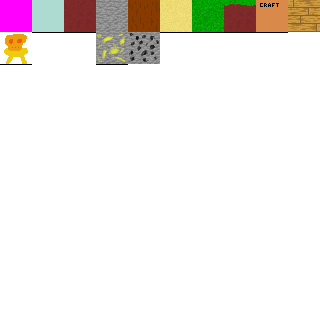
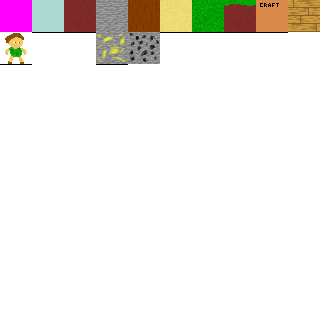
better deserts, tile update

Changed region(s): [[0.0, 0.0938, 0.0938, 0.2188]]

diff --git a/Chunk.cpp b/Chunk.cpp
@@ -1,5 +1,6 @@
 #include "Helper.h"
 
+//Chunk generation takes approximately 14 ms
 Map::Chunk::Chunk(Map* map, posChunk p) :pos(p), map(map){
 	std::cout << "Created chunk [" << p.x << "][" << p.y << "]" << std::endl;
 	generate();
@@ -21,12 +22,21 @@ void Map::Chunk::generate(){
 				if(biome!=Biome::DESERT && gy + j > 0)b.fluid = 2;
 				data[i + j * chSize] = b;
 			} else if(j + gy == n1){
-				if(gy + j < 0)
-					data[i + j * chSize] = Block(Tile::GRASS, Tile::DIRT, 0);
-				else
+				if(gy + j < 0){
+					if(biome == Biome::DESERT){
+						data[i + j * chSize] = Block(Tile::SAND, Tile::SAND, 0);
+					} else{
+						data[i + j * chSize] = Block(Tile::GRASS, Tile::DIRT, 0);
+					}
+				} else
 					data[i + j * chSize] = Block(Tile::SAND, Tile::AIR, 0);
-			} else if(j + gy < n1 + dirtHeight)data[i + j * chSize] = Block(Tile::DIRT, Tile::DIRT, 0);
-			else{
+			} else if(j + gy < n1 + dirtHeight){
+				if(biome == Biome::DESERT){
+					data[i + j * chSize] = Block(Tile::SAND, Tile::SAND, 0);
+				} else{
+					data[i + j * chSize] = Block(Tile::DIRT, Tile::DIRT, 0);
+				}
+			} else{
 				std::uniform_int_distribution<> dist(0, 10000);
 				const bool oreG = dist(rng) > 9990;
 				const bool oreC = dist(rng) > 9990;

diff --git a/Game.cpp b/Game.cpp
@@ -88,12 +88,14 @@ SDL_AppResult SDL_AppInit(void** appstate, int argc, char** argv){
 
 void AppUpdate(std::stop_token stoken){
 	while(!stoken.stop_requested()){
+		int cChG1 = game.countChunkGen;
 		const auto t = std::chrono::high_resolution_clock::now();
 		game.map->update();
 		const auto t2 = std::chrono::high_resolution_clock::now();
-		/*if(t2 > t + std::chrono::milliseconds(1000 / 40)){
-			std::cerr << "Update took too long: " << (t2-t).count()/1000000 << "ms\n";
-		}*/
+		int cChG2 = game.countChunkGen;
+		if(t2 > t + std::chrono::milliseconds(1000 / 40)){
+			std::cerr << "Update took too long: " << (t2-t).count()/1000000 << "ms CG:"<<cChG2-cChG1<<"\n";
+		}
 		std::this_thread::sleep_until(t+std::chrono::milliseconds(1000/40));
 	}
 }